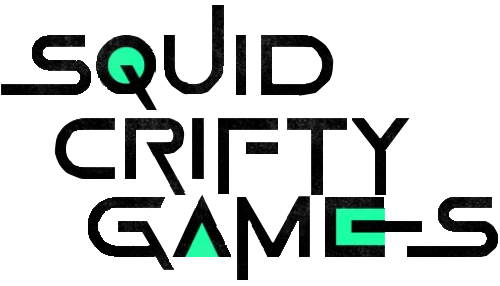
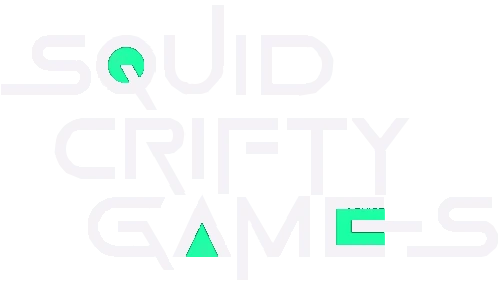
v42

Changed region(s): [[0.0, 0.0, 1.0, 0.979]]

diff --git a/events/index.html b/events/index.html
@@ -67,7 +67,7 @@
     <!-- Cada evento es un <article class="prow ev-card">. Al hacer clic se despliega .ev-more (info + imágenes).
          El carrusel de "Eventos destacados" del inicio lee estas tarjetas automáticamente. -->
     <article class="prow ev-card reveal" id="squid-crifty-games">
-      <div class="media prow-thumb ev-logo"><img src="../assets/img/events/squid-crifty-games.webp" alt="Logo de Squid Crifty Games" width="500" height="286" loading="lazy" decoding="async"><span class="media-placeholder mono" data-i18n="common.imgsoon">Imagen próximamente</span></div>
+      <div class="media prow-thumb ev-logo ev-logo-dark"><img src="../assets/img/events/squid-crifty-games.webp" alt="Logo de Squid Crifty Games" width="500" height="286" loading="lazy" decoding="async"><span class="media-placeholder mono" data-i18n="common.imgsoon">Imagen próximamente</span></div>
       <div class="prow-main">
         <p class="ev-date mono" data-i18n="ev.scg.date">Junio 2025</p>
         <h2>Squid Crifty Games</h2>
@@ -108,6 +108,40 @@
           <div><dt data-i18n="ev.when">Fecha</dt><dd data-i18n="ev.ce.date">Agosto - Diciembre 2025</dd></div>
         </dl>
         <p class="prose" data-i18n="ev.ce.full">Este fue mi primer minievento de minijuegos que hacía cada semana. Con este proyecto aprendí mucho más sobre comandos.</p>
+        <h3 class="ev-sub mono" data-i18n="ev.images">Imágenes</h3>
+        <div class="ev-gallery" data-lightbox>
+          <p class="ev-noimg mono" data-i18n="common.imgsoon">Imagen próximamente</p>
+        </div>
+      </div>
+    </article>
+    <article class="prow ev-card reveal" id="crifty-evento-2026">
+      <div class="media prow-thumb ev-logo ev-logo-dark"><img src="../assets/img/events/crifty-evento-2026.webp" alt="Logo de CriftyEvento 2026" width="1705" height="689" loading="lazy" decoding="async"><span class="media-placeholder mono" data-i18n="common.imgsoon">Imagen próximamente</span></div>
+      <div class="prow-main">
+        <p class="ev-date mono" data-i18n="ev.c26.date">Enero - Julio 2026</p>
+        <h2>CriftyEvento 2026</h2>
+        <p class="desc" data-i18n="ev.c26.desc">La secuela de CriftyEvento, con muchos más minijuegos.</p>
+      </div>
+      <div class="prow-end ev-side">
+        <span class="ev-status is-done mono" data-i18n="ev.status.disc">Descontinuado</span>
+        <button class="ev-toggle mono" type="button" aria-expanded="false" aria-controls="ev-c26-more"><span data-i18n="common.details">Ver detalles</span> <span class="arrow" aria-hidden="true">↓</span></button>
+      </div>
+      <div class="ev-more" id="ev-c26-more" hidden>
+        <dl class="ev-facts">
+          <div><dt data-i18n="ev.status">Estado</dt><dd data-i18n="ev.status.disc">Descontinuado</dd></div>
+          <div><dt data-i18n="ev.when">Fecha</dt><dd data-i18n="ev.c26.date">Enero - Julio 2026</dd></div>
+        </dl>
+        <p class="prose" data-i18n="ev.c26.full">Este evento fue la secuela de CriftyEvento (2025) y fue bastante más avanzado en cuanto a la estructura de los comandos. Contaba con bastantes minijuegos:</p>
+        <h3 class="ev-sub mono" data-i18n="ev.games">Minijuegos</h3>
+        <ul class="ev-games">
+          <li><strong data-i18n="ev.c26.g1.n">Spleef</strong><span data-i18n="ev.c26.g1.d">Los jugadores aparecen en un mapa con 8 plataformas de nieve, con una pala y 16 bolas de nieve. Al comenzar, rompen el piso para que los demás caigan hasta el último nivel y mueran.</span></li>
+          <li><strong data-i18n="ev.c26.g2.n">Colores</strong><span data-i18n="ev.c26.g2.d">Hay varias plataformas de distintos colores. La pantalla muestra un color y los jugadores deben ir a una plataforma de ese color en un tiempo asignado; de lo contrario mueren.</span></li>
+          <li><strong data-i18n="ev.c26.g3.n">Ice Rink Risk</strong><span data-i18n="ev.c26.g3.d">Los jugadores aparecen en un mapa de hielo limitado. Una bola con pinchos rebota en las paredes y deben evitar que los pinche o morirán.</span></li>
+          <li><strong data-i18n="ev.c26.g4.n">En Base</strong><span data-i18n="ev.c26.g4.d">Hay varias bases en el suelo y, cuando la música para, los jugadores deben ir a una base iluminada; de lo contrario mueren.</span></li>
+          <li><strong data-i18n="ev.c26.g5.n">Colas Locas</strong><span data-i18n="ev.c26.g5.d">Hay cierta cantidad de colas y los jugadores deben luchar entre sí para conservar una al terminar el tiempo de la ronda, o morirán.</span></li>
+          <li><strong data-i18n="ev.c26.g6.n">Banderas</strong><span data-i18n="ev.c26.g6.d">Mi juego favorito de todos los que he hecho. Los jugadores están en una plataforma flotante y el administrador tiene dos banderas: si saca la roja, deben agacharse; si saca la blanca, deben saltar. Quien se equivoca cae al vacío y muere.</span></li>
+          <li><strong data-i18n="ev.c26.g7.n">Colina</strong><span data-i18n="ev.c26.g7.d">Los jugadores aparecen en un mapa con 3 montañas fáciles de escalar: dos moradas y pequeñas, y una verde y más grande. La verde da 1 punto por segundo y la morada 1 punto cada 3 segundos. Gana quien consiga más puntos antes de que acabe el tiempo; los de menor puntaje son eliminados.</span></li>
+          <li><strong data-i18n="ev.c26.g8.n">Huevos</strong><span data-i18n="ev.c26.g8.d">Se forman 4 equipos de distintos colores y se esconden huevos de Pascua de esos 4 colores. Cada equipo debe encontrar la mayor cantidad de huevos de su color; el equipo con menos huevos es eliminado.</span></li>
+        </ul>
         <h3 class="ev-sub mono" data-i18n="ev.images">Imágenes</h3>
         <div class="ev-gallery" data-lightbox>
           <p class="ev-noimg mono" data-i18n="common.imgsoon">Imagen próximamente</p>

diff --git a/assets/js/i18n.js b/assets/js/i18n.js
@@ -28,6 +28,26 @@ window.I18N = {
     "ev.scg.date": "Junio 2025",
     "ev.scg.desc": "Mi primer evento inspirado en la serie Squid Game.",
     "ev.scg.full": "Este fue mi primer evento inspirado en la serie de Squid Game. Fue un evento 100% a base de comandos y addons propios (los addons solo incluían modelos y texturas).",
+    "ev.c26.date": "Enero - Julio 2026",
+    "ev.c26.desc": "La secuela de CriftyEvento, con muchos más minijuegos.",
+    "ev.c26.full": "Este evento fue la secuela de CriftyEvento (2025) y fue bastante más avanzado en cuanto a la estructura de los comandos. Contaba con bastantes minijuegos:",
+    "ev.games": "Minijuegos",
+    "ev.c26.g1.n": "Spleef",
+    "ev.c26.g1.d": "Los jugadores aparecen en un mapa con 8 plataformas de nieve, con una pala y 16 bolas de nieve. Al comenzar, rompen el piso para que los demás caigan hasta el último nivel y mueran.",
+    "ev.c26.g2.n": "Colores",
+    "ev.c26.g2.d": "Hay varias plataformas de distintos colores. La pantalla muestra un color y los jugadores deben ir a una plataforma de ese color en un tiempo asignado; de lo contrario mueren.",
+    "ev.c26.g3.n": "Ice Rink Risk",
+    "ev.c26.g3.d": "Los jugadores aparecen en un mapa de hielo limitado. Una bola con pinchos rebota en las paredes y deben evitar que los pinche o morirán.",
+    "ev.c26.g4.n": "En Base",
+    "ev.c26.g4.d": "Hay varias bases en el suelo y, cuando la música para, los jugadores deben ir a una base iluminada; de lo contrario mueren.",
+    "ev.c26.g5.n": "Colas Locas",
+    "ev.c26.g5.d": "Hay cierta cantidad de colas y los jugadores deben luchar entre sí para conservar una al terminar el tiempo de la ronda, o morirán.",
+    "ev.c26.g6.n": "Banderas",
+    "ev.c26.g6.d": "Mi juego favorito de todos los que he hecho. Los jugadores están en una plataforma flotante y el administrador tiene dos banderas: si saca la roja, deben agacharse; si saca la blanca, deben saltar. Quien se equivoca cae al vacío y muere.",
+    "ev.c26.g7.n": "Colina",
+    "ev.c26.g7.d": "Los jugadores aparecen en un mapa con 3 montañas fáciles de escalar: dos moradas y pequeñas, y una verde y más grande. La verde da 1 punto por segundo y la morada 1 punto cada 3 segundos. Gana quien consiga más puntos antes de que acabe el tiempo; los de menor puntaje son eliminados.",
+    "ev.c26.g8.n": "Huevos",
+    "ev.c26.g8.d": "Se forman 4 equipos de distintos colores y se esconden huevos de Pascua de esos 4 colores. Cada equipo debe encontrar la mayor cantidad de huevos de su color; el equipo con menos huevos es eliminado.",
     "ev.status.disc": "Descontinuado",
     "ev.ce.date": "Agosto - Diciembre 2025",
     "ev.ce.desc": "Mi primer minievento de minijuegos semanales.",
@@ -235,6 +255,26 @@ window.I18N = {
     "ev.scg.date": "June 2025",
     "ev.scg.desc": "My first event, inspired by the Squid Game series.",
     "ev.scg.full": "This was my first event inspired by the Squid Game series. It was built 100% on commands and my own addons (the addons only included models and textures).",
+    "ev.c26.date": "January - July 2026",
+    "ev.c26.desc": "The sequel to CriftyEvento, with many more minigames.",
+    "ev.c26.full": "This event was the sequel to CriftyEvento (2025) and was far more advanced in terms of command structure. It featured plenty of minigames:",
+    "ev.games": "Minigames",
+    "ev.c26.g1.n": "Spleef",
+    "ev.c26.g1.d": "Players spawn on a map with 8 snow platforms, with a shovel and 16 snowballs. When the game starts they break the floor so the others fall to the bottom level and die.",
+    "ev.c26.g2.n": "Colors",
+    "ev.c26.g2.d": "There are several platforms of different colors. The screen shows a color and players must get to a platform of that color within the given time, or they die.",
+    "ev.c26.g3.n": "Ice Rink Risk",
+    "ev.c26.g3.d": "Players spawn on a limited ice map. A spiked ball bounces off the walls and they must avoid being hit by it or they die.",
+    "ev.c26.g4.n": "On Base",
+    "ev.c26.g4.d": "There are several bases on the ground and, when the music stops, players must run to a lit base, or they die.",
+    "ev.c26.g5.n": "Crazy Tails",
+    "ev.c26.g5.d": "There is a limited number of tails and players must fight each other to keep one when the round timer ends, or they die.",
+    "ev.c26.g6.n": "Flags",
+    "ev.c26.g6.d": "My favorite game of everything I've ever made. Players stand on a floating platform and the admin holds two flags: if the red one is raised they must crouch; if the white one is raised they must jump. Anyone who gets it wrong falls into the void and dies.",
+    "ev.c26.g7.n": "Hill",
+    "ev.c26.g7.d": "Players spawn on a map with 3 easy-to-climb mountains: two small purple ones and a bigger green one. The green one gives 1 point per second and the purple ones 1 point every 3 seconds. The goal is to get as many points as possible before time runs out; the lowest scorers are eliminated.",
+    "ev.c26.g8.n": "Eggs",
+    "ev.c26.g8.d": "Players are split into 4 teams of different colors and Easter eggs of those 4 colors are hidden. Each team must find as many eggs of its own color as possible; the team with the fewest eggs is eliminated.",
     "ev.status.disc": "Discontinued",
     "ev.ce.date": "August - December 2025",
     "ev.ce.desc": "My first mini-event of weekly minigames.",

diff --git a/index.html b/index.html
@@ -122,7 +122,7 @@
     <!-- Se rellena sola con los eventos de /events/ (data-events-feed). El contenido de abajo es el respaldo si no carga. -->
     <div class="rail reveal" tabindex="0" aria-label="Eventos destacados" data-i18n-attr="aria-label:home.events" id="events-rail" data-events-feed="./events/" data-rail-line="events-line">
       <article class="slide ev-slide">
-        <div class="media slide-media ev-logo"><img src="./assets/img/events/squid-crifty-games.webp" alt="Logo de Squid Crifty Games" width="500" height="286" loading="lazy" decoding="async"><span class="media-placeholder mono" data-i18n="common.imgsoon">Imagen próximamente</span></div>
+        <div class="media slide-media ev-logo ev-logo-dark"><img src="./assets/img/events/squid-crifty-games.webp" alt="Logo de Squid Crifty Games" width="500" height="286" loading="lazy" decoding="async"><span class="media-placeholder mono" data-i18n="common.imgsoon">Imagen próximamente</span></div>
         <div class="slide-body">
           <p class="ev-date mono" data-i18n="ev.scg.date">Junio 2025</p>
           <h3>Squid Crifty Games</h3>

diff --git a/assets/css/style.css b/assets/css/style.css
@@ -707,3 +707,9 @@ html.lb-open { overflow: hidden; }
 /* Logos claros o con brillo (p. ej. CriftyEvento): placa oscura en vez de la clara */
 .ev-logo.ev-logo-dark { background: radial-gradient(closest-side, var(--accent-soft), transparent 90%), var(--bg-2); }
 .ev-logo.ev-logo-dark .media-placeholder { color: var(--faint); }
+
+/* Lista de minijuegos dentro de un evento */
+.ev-games { list-style: none; display: grid; gap: 0.6rem; grid-template-columns: repeat(auto-fill, minmax(min(100%, 260px), 1fr)); }
+.ev-games li { display: grid; gap: 0.3rem; align-content: start; padding: 0.85rem 1rem; border: 1px solid var(--line); border-radius: var(--radius); background: var(--surface-2); color: var(--muted); font-size: 0.9rem; line-height: 1.55; }
+.ev-games strong { display: flex; align-items: baseline; gap: 0.5rem; color: var(--text); font-size: 1rem; font-weight: 800; letter-spacing: -0.02em; }
+.ev-games strong::before { content: ""; flex: none; width: 0.5rem; height: 0.5rem; background: var(--accent); }
